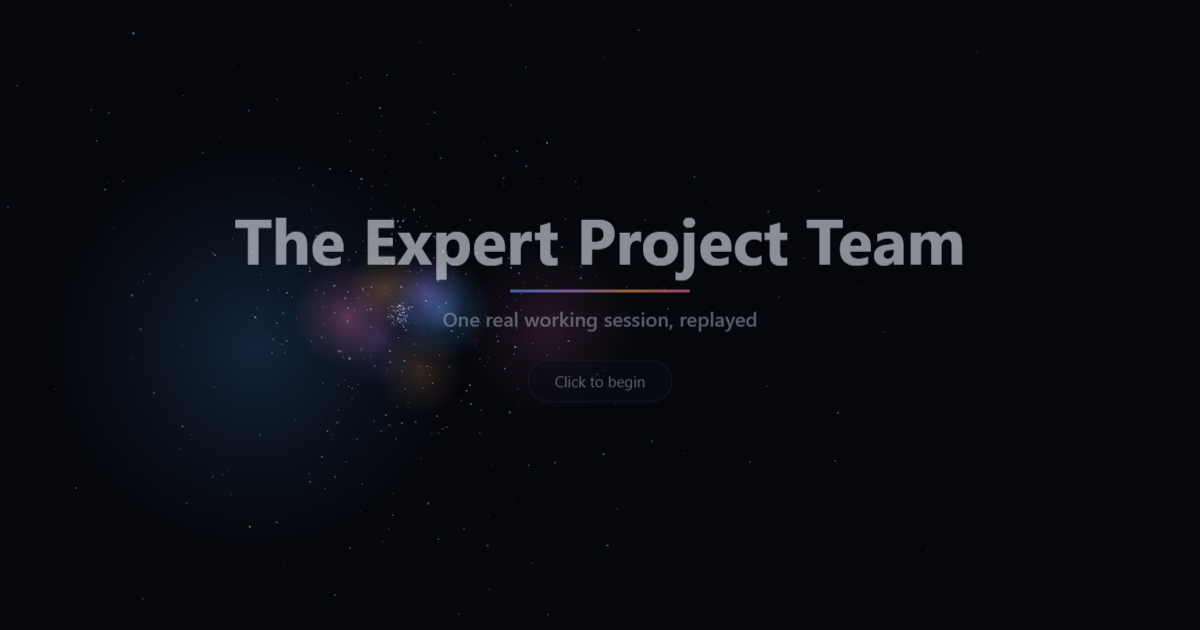
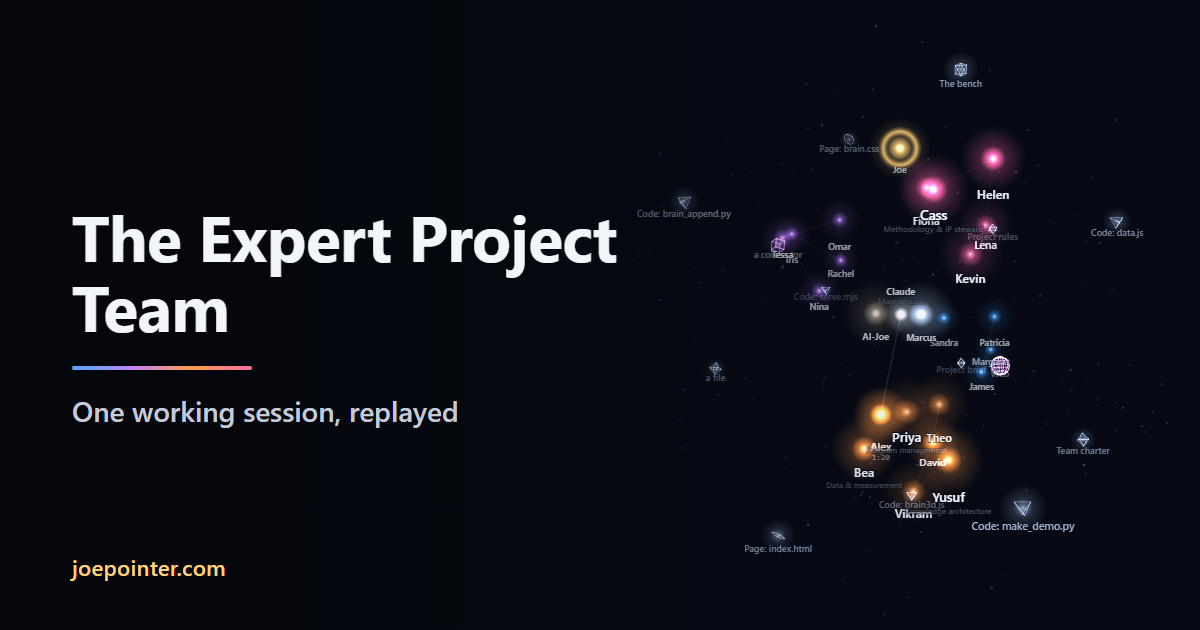
Give the Brain a real preview card and its on-screen name
The social preview card is now a frame of the replay mid-session under
the page's own title, built by make_og_card.py and reviewed by David.
The tab and og:title say The Expert Project Team, matching the page.

diff --git a/brain/index.html b/brain/index.html
@@ -9,11 +9,11 @@
 <meta charset="utf-8">
 <meta name="viewport" content="width=device-width, initial-scale=1">
 <meta name="brain-edit" content="">
-<title>Expert Team Brain, One Working Session Replayed | Joe Pointer</title>
+<title>The Expert Project Team, One Working Session Replayed | Joe Pointer</title>
 <meta name="robots" content="noindex, nofollow">
 <meta name="description" content="One working session with Joe Pointer's team of AI agents, recorded in September 2026 and replayed as a 3D scene. Company names and other identifying details were taken out.">
 <meta property="og:type" content="website">
-<meta property="og:title" content="Expert Team Brain, One Working Session Replayed">
+<meta property="og:title" content="The Expert Project Team, One Working Session Replayed">
 <meta property="og:description" content="One working session with Joe Pointer's team of AI agents, recorded in September 2026 and replayed as a 3D scene. Company names and other identifying details were taken out.">
 <meta property="og:url" content="https://joepointer.com/brain/">
 <meta property="og:image" content="https://joepointer.com/brain/og-image.png">
